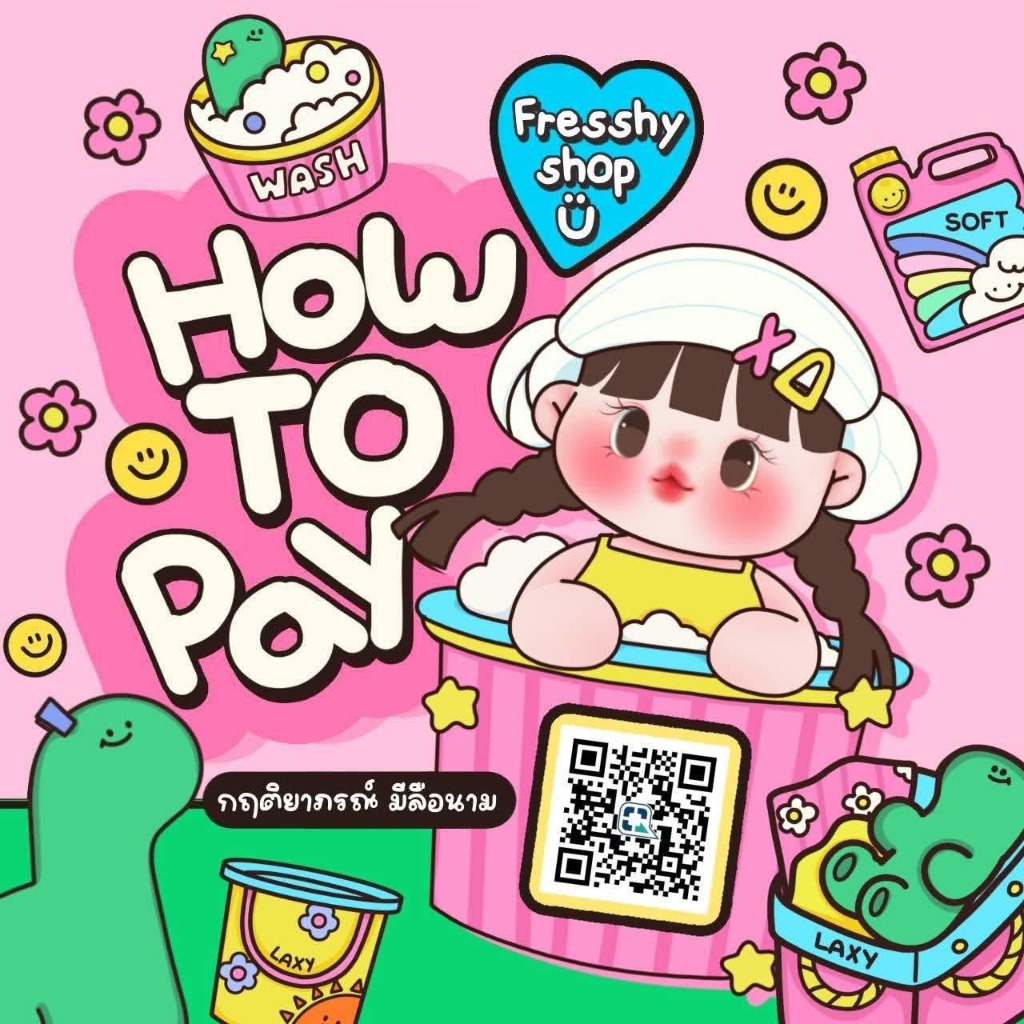
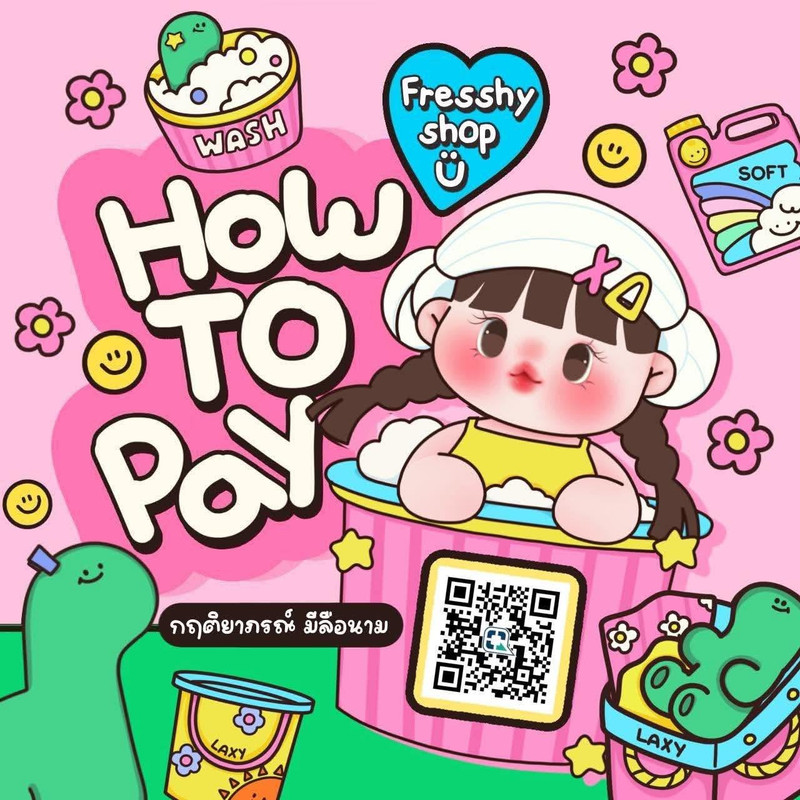
feat(shop-bot): use direct postimg URL for instant 0.02s payment QR display

Changed region(s): [[0.5625, 0.75, 0.6875, 0.875], [0.5625, 0.1562, 0.625, 0.1875]]

diff --git a/shop-bot/services/payment-helper.js b/shop-bot/services/payment-helper.js
@@ -3,8 +3,8 @@ const path = require('path');
 const fs = require('fs');
 const config = require('../config');
 
-// แคช Discord CDN URL ของรูป QR Code (เมื่อมี URL แล้ว จะส่งผ่าน JSON เพียวๆ ใน 0.03 วินาที!)
-let cachedQrUrl = process.env.PAYMENT_QR_URL || null;
+// แคชรูป QR Code (ใช้ Direct URL จาก PostImages ตอบสนองทันทีใน 0.02 วินาที!)
+let cachedQrUrl = process.env.PAYMENT_QR_URL || 'https://i.postimg.cc/jdnj5jvs/6cd7230b-c4ee-4ce7-90a6-b264ff960959.jpg';
 
 /**
  * สร้าง Embed ข้อมูลชำระเงินและ QR Code (รองรับ Fast CDN Cache ส่งไวระดับมิลลิวินาที)
